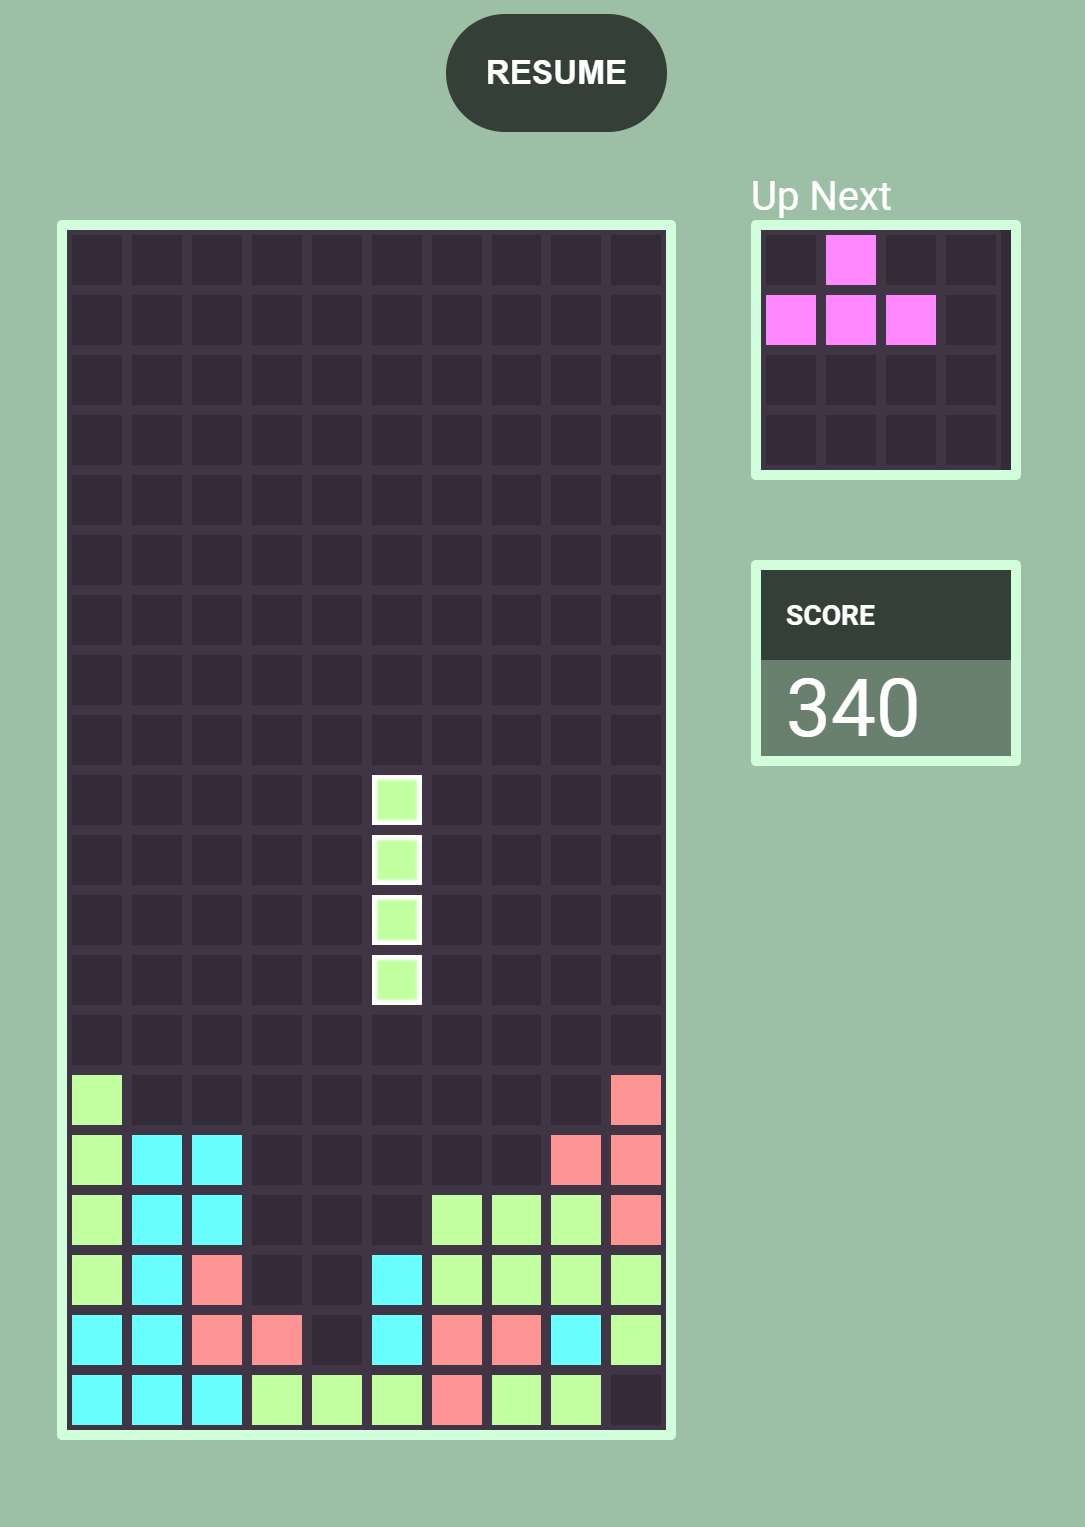
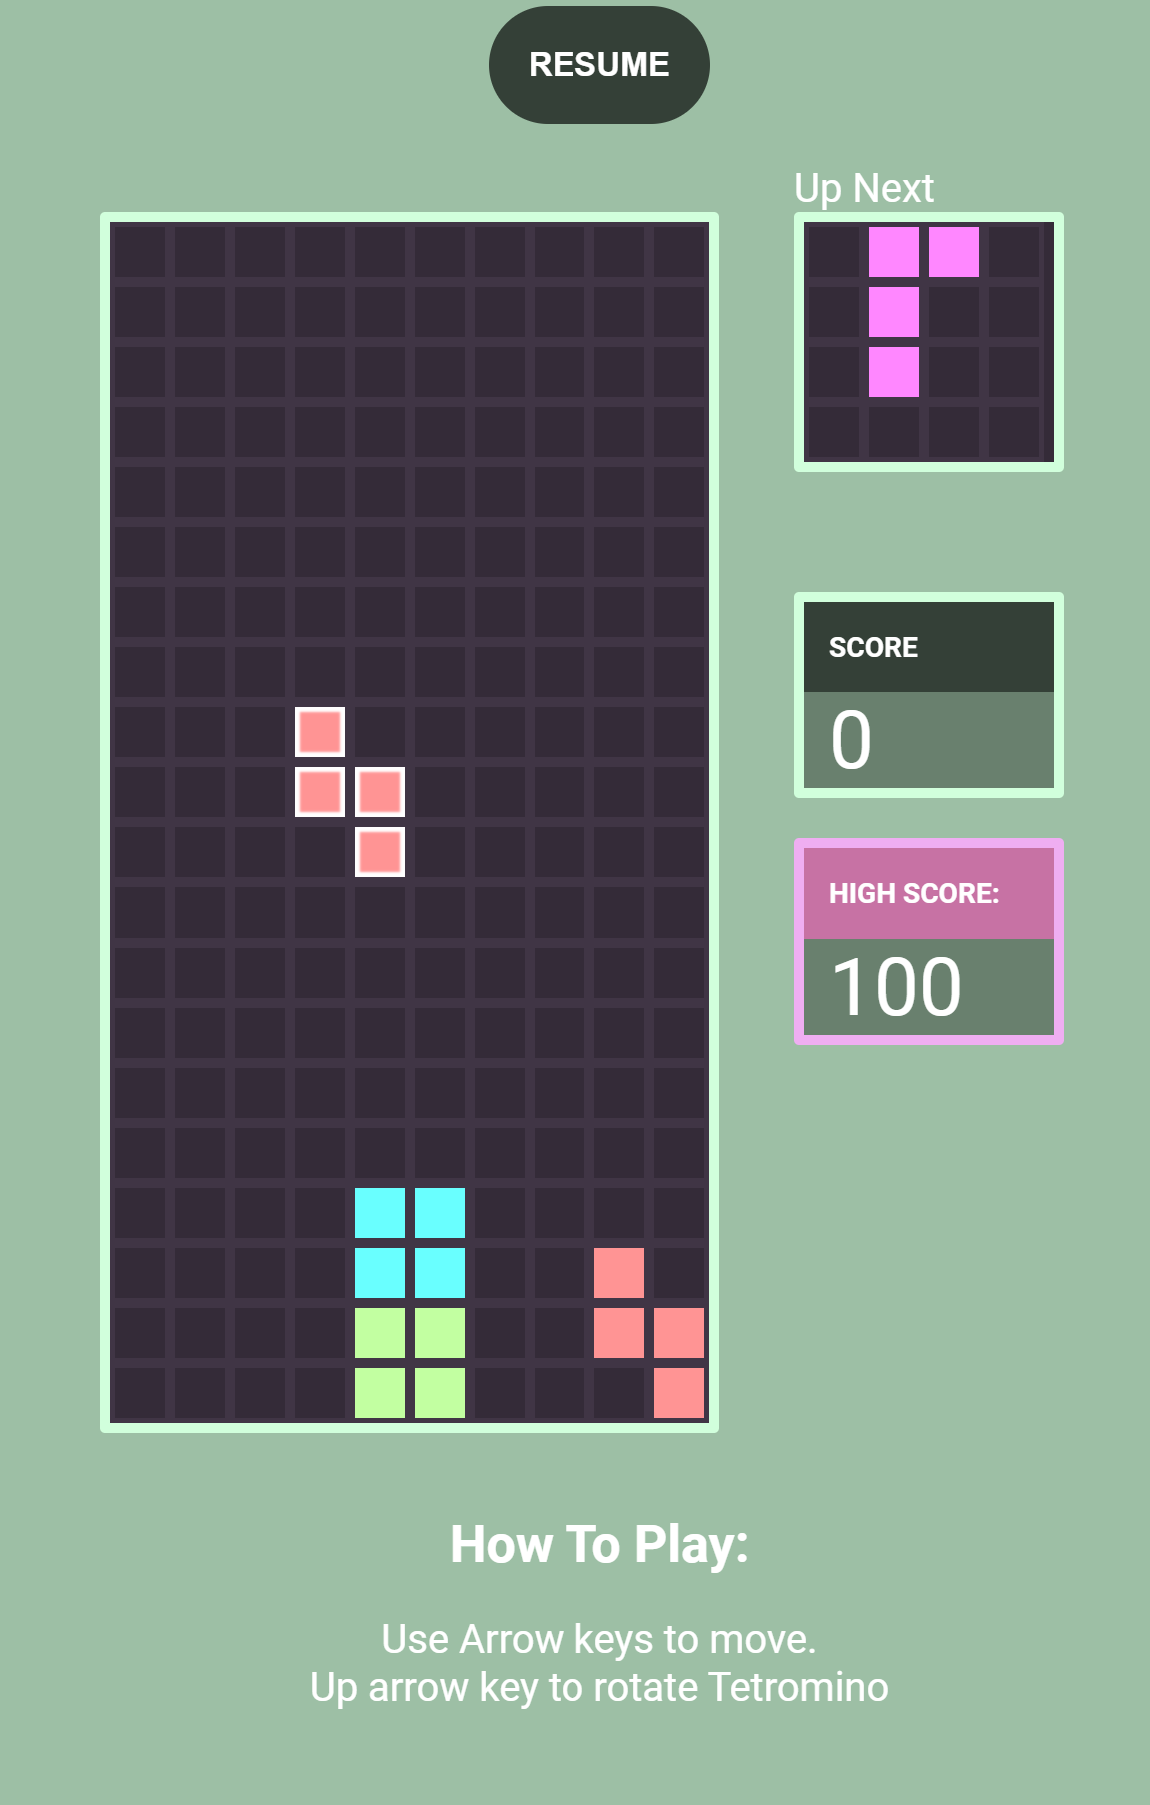
Added mobile controls

Changed region(s): [[0.0304, 0.0, 0.7604, 0.9542], [0.6691, 0.0923, 0.9429, 0.5848], [0.6083, 0.0308, 0.6387, 0.0616]]

diff --git a/scripts/app.js b/scripts/app.js
@@ -24,6 +24,11 @@ document.addEventListener("DOMContentLoaded", () => {
 
   const startBtn = document.getElementById("start-btn");
 
+  const mobilecontrol_Down = document.getElementById("down-btn");
+  const mobilecontrol_Left = document.getElementById("left-btn");
+  const mobilecontrol_Right = document.getElementById("right-btn");
+  const mobilecontrol_Rotate = document.getElementById("rotate-btn");
+
   const upNextTetrominoArray = [
     [1, miniGridWidth + 1, miniGridWidth * 2 + 1, 2], //lTetromino
     [0, miniGridWidth, miniGridWidth + 1, miniGridWidth * 2 + 1], //zTetromino
@@ -111,6 +116,29 @@ document.addEventListener("DOMContentLoaded", () => {
     }
   }
   document.addEventListener("keyup", control);
+  // * * *
+
+  // Mobile controls
+  mobilecontrol_Down.addEventListener("click", () => {
+    if (!isPlaying) return;
+    moveTetrominoDown();
+  });
+
+  mobilecontrol_Left.addEventListener("click", () => {
+    if (!isPlaying) return;
+    moveTetrominoLeft();
+  });
+
+  mobilecontrol_Right.addEventListener("click", () => {
+    if (!isPlaying) return;
+    moveTetrominoRight();
+  });
+
+  mobilecontrol_Rotate.addEventListener("click", () => {
+    if (!isPlaying) return;
+    rotateTetromino();
+  });
+
   // * * *
 
   startBtn.addEventListener("click", () => {

diff --git a/index.css b/index.css
@@ -158,3 +158,43 @@ button {
 .highscore__container>.score__header {
   background-color: #C772A4;
 }
+
+.gamecontrols-desktop {
+  display: none;
+  /*mobile*/
+  margin-top: 2rem;
+  color: white;
+  text-align: center;
+}
+
+.gamecontrols-desktop span {
+  font-weight: 800;
+  font-size: 1.3rem;
+}
+
+.gamecontrols-mobile {
+  /* mobile first here */
+  display: flex;
+  flex-direction: row;
+  align-items: center;
+  justify-content: center;
+  margin: 2rem;
+}
+
+.gamecontrols-mobile button {
+  /* mobile first here */
+  margin: 0.3rem;
+}
+
+/* desktop - show desktop text */
+@media only screen and (min-width: 768px) {
+
+  .gamecontrols-desktop {
+    display: flex;
+    flex-direction: column;
+  }
+
+  .gamecontrols-mobile {
+    display: none;
+  }
+}

diff --git a/index.html b/index.html
@@ -34,7 +34,16 @@
         </div>
       </div>
     </div>
-
+    <div class="gamecontrols-desktop">
+      <span>How To Play:</span>
+      <p>Use Arrow keys to move.<br />Up arrow key to rotate Tetromino</p>
+    </div>
+    <div class="gamecontrols-mobile">
+      <button id="left-btn">Left</button>
+      <button id="down-btn">Down</button>
+      <button id="right-btn">Right</button>
+      <button id="rotate-btn">Rotate</button>
+    </div>
     <script type="module" src="./scripts/app.js"></script>
   </body>
 </html>
